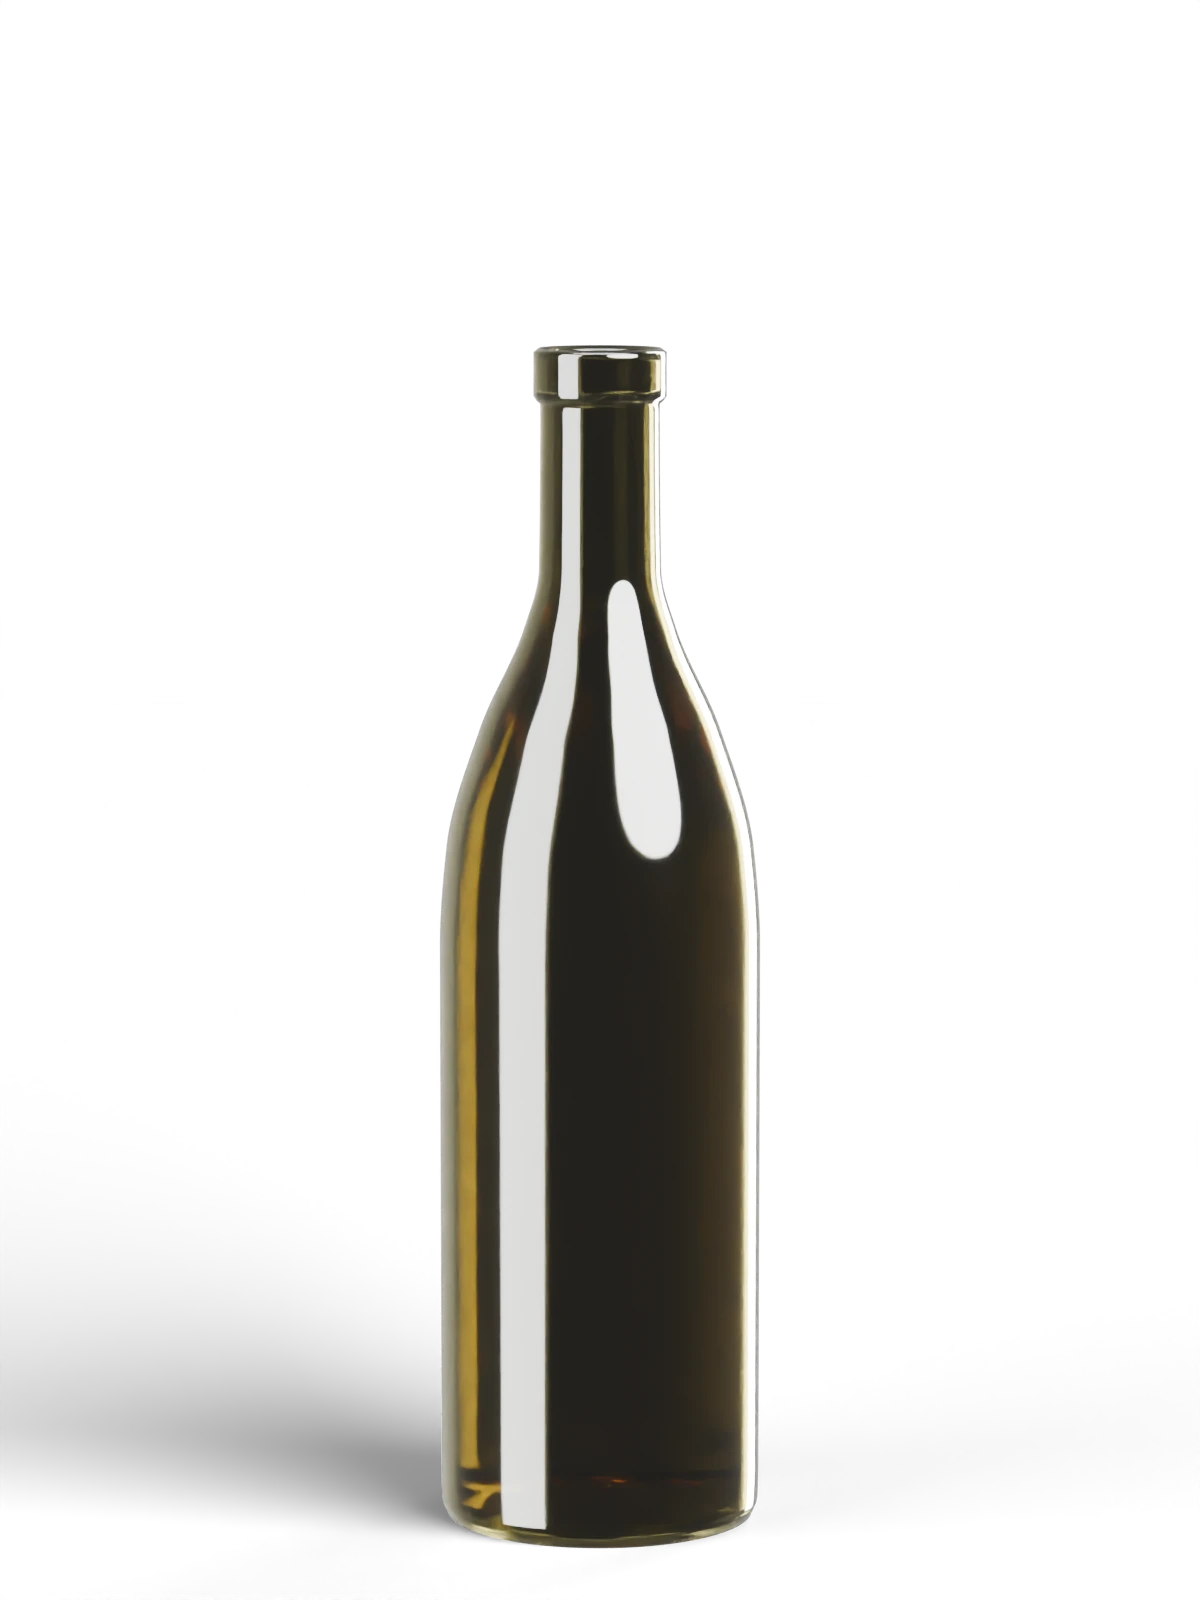
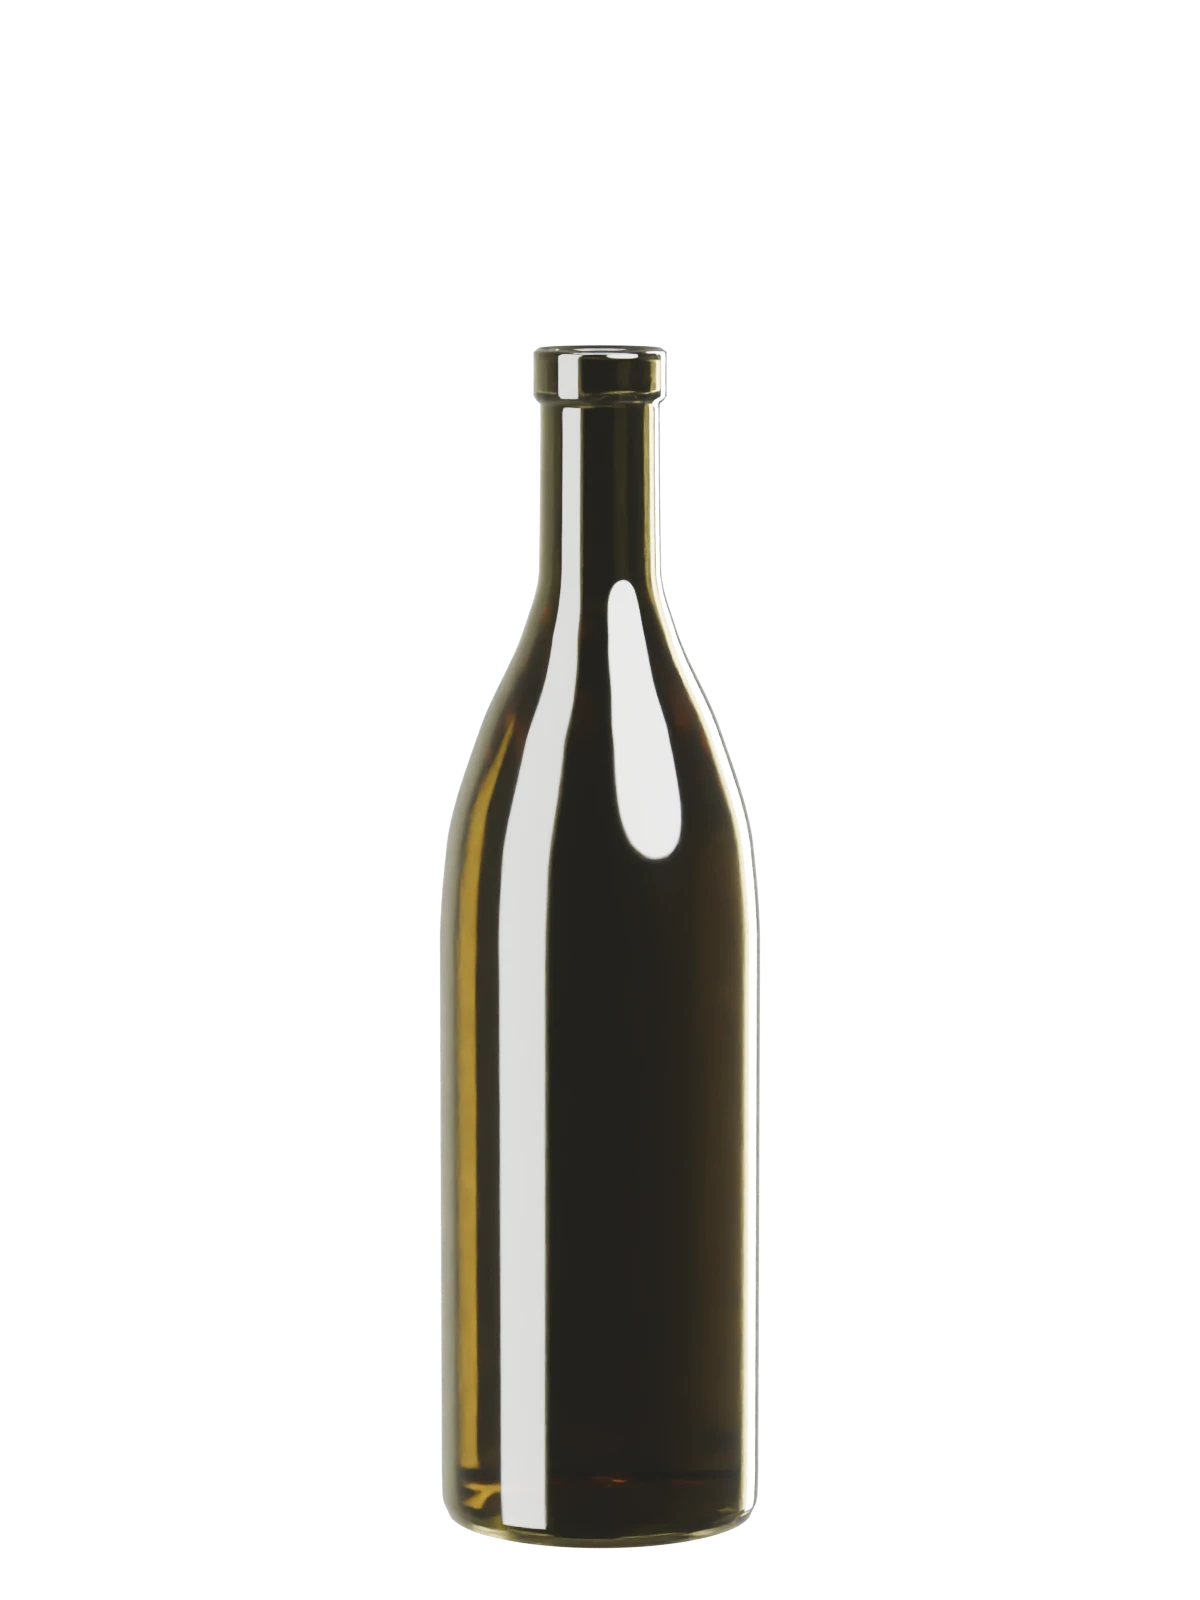
Transparent, shadow-free bottle visuals; display background as a setting
- Visuals no longer bake any contact or cast shadow; studio bottles re-rendered without the shadow catcher
  (--shadow keeps the old look)
- Background is applied by the display (--visual-bg): white by default, ivory or none, chosen in Compte,
  stored per device; changing it needs no regeneration
- Cutout clean-up removes thin cords or wires touching the top of the bottle (rows < 12 % of bottle width)

Claude-Session: https://claude.ai/code/session_01DhDUi5uRoGWFvdqY9Jj3Tm

Changed region(s): [[0.0, 0.8125, 0.4008, 0.9688]]

diff --git a/assets/js/visuel.js b/assets/js/visuel.js
@@ -8,7 +8,7 @@
 (function () {
   const VC = window.VC;
   const { sb, $, esc, I, toast, fail } = VC;
-  const BASE = "/assets/img/bottles/", AV = "?v=20261107";  // AV : version des rendus (cache de l'app installée)
+  const BASE = "/assets/img/bottles/", AV = "?v=20261107b";  // AV : version des rendus (cache de l'app installée)
   const SHAPE_LABEL = { bordeaux: "Bordelaise", burgundy: "Bourguignonne", champagne: "Champenoise", alsace: "Flûte", spirit: "Spiritueux" };
   const VARIANT_LABEL = { "green-red": "Vert · rouge", "flint-white": "Blanc · vin blanc", "flint-rose": "Blanc · rosé", "olive-red": "Feuille-morte · rouge",
     "olive-white": "Feuille-morte · blanc", "darkgreen-white": "Vert foncé", "green-white": "Vert · blanc", "flint-amber": "Ambré", "flint-clear": "Incolore" };
@@ -350,36 +350,26 @@
   }
 
   // ---------------------------------------------------------------- packshot d'une vraie bouteille détourée
-  // La bouteille (PNG transparent de fal) est posée au cadrage et à l'échelle des rendus de studio, sur une ombre
-  // de contact et une ombre portée douce vers l'arrière gauche, comme les bouteilles vierges.
+  // La bouteille (PNG transparent de fal) est posée au cadrage et à l'échelle des rendus de studio, sans ombre :
+  // le visuel reste transparent, et c'est l'affichage (réglage « Fond des aperçus ») qui pose le fond.
   async function composePhoto(png, shape) {
     const s = meta.shapes[shape] || meta.shapes.burgundy, cam = meta.camera, [W, H] = meta.size, R = cam.rot, [ox, oy, oz] = cam.pos;
     const screenY = (x, y, z) => { const px = x - ox, py = y - oy, pz = z - oz; const cy = R[0][1] * px + R[1][1] * py + R[2][1] * pz, cz = R[0][2] * px + R[1][2] * py + R[2][2] * pz; return H / 2 - cam.f * cy / -cz; };
     const foot = screenY(0, -s.body.r, 0), lip = screenY(0, 0, s.h), targetH = foot - lip;
     // recadrage sur la silhouette (alpha)
     const t = document.createElement("canvas"); t.width = png.width; t.height = png.height; const tx = t.getContext("2d"); tx.drawImage(png, 0, 0);
-    const a = tx.getImageData(0, 0, t.width, t.height).data; let x0 = t.width, y0 = t.height, x1 = 0, y1 = 0;
+    const D = tx.getImageData(0, 0, t.width, t.height), a = D.data; let x0 = t.width, y0 = t.height, x1 = 0, y1 = 0;
+    // Nettoyage du haut : un fil ou un câble qui touche la capsule (lampe, suspension) est gardé par le détourage ;
+    // les lignes bien plus étroites que la bouteille (< 12 % de sa largeur maximale) sont retirées au-dessus d'elle.
+    const rowW = new Int32Array(t.height); let maxW = 0;
+    for (let y = 0; y < t.height; y++) { let n = 0; for (let x = 0; x < t.width; x++) if (a[(y * t.width + x) * 4 + 3] > 128) n++; rowW[y] = n; if (n > maxW) maxW = n; }
+    let top = 0; while (top < t.height && rowW[top] < maxW * .12) top++;
+    if (top > 0) { for (let i = 0; i < top * t.width * 4; i += 4) a[i + 3] = 0; tx.putImageData(D, 0, 0); }
     for (let y = 0; y < t.height; y++) for (let x = 0; x < t.width; x++) if (a[(y * t.width + x) * 4 + 3] > 24) { if (x < x0) x0 = x; if (x > x1) x1 = x; if (y < y0) y0 = y; if (y > y1) y1 = y; }
     if (x1 <= x0 || y1 <= y0) throw new Error("Détourage vide.");
     const bw0 = x1 - x0 + 1, bh0 = y1 - y0 + 1, k = Math.min(targetH / bh0, W * .7 / bw0), bw = bw0 * k, bh = bh0 * k, dx = (W - bw) / 2, dy = foot - bh;
-    const sil = document.createElement("canvas"); sil.width = bw0; sil.height = bh0; const sx = sil.getContext("2d");
-    sx.drawImage(t, x0, y0, bw0, bh0, 0, 0, bw0, bh0); sx.globalCompositeOperation = "source-in"; sx.fillStyle = "#000"; sx.fillRect(0, 0, bw0, bh0);
     const c = document.createElement("canvas"); c.width = W; c.height = H; const ctx = c.getContext("2d");
-    // ombre portée : silhouette couchée sur le sol vers l'arrière gauche, floutée (réduction puis agrandissement), estompée
-    // Haut de la silhouette → vers la gauche et vers le fond (cisaillement + écrasement), pied fixe.
-    const S = 2, sh = document.createElement("canvas"); sh.width = W / S; sh.height = H / S; const hx = sh.getContext("2d");
-    if ("filter" in hx) hx.filter = "blur(9px)";
-    hx.setTransform(1 / S, 0, .6 / S, .16 / S, (dx - .6 * bh) / S, (foot - .16 * bh) / S); hx.drawImage(sil, 0, 0, bw, bh);
-    hx.filter = "none";
-    hx.setTransform(1, 0, 0, 1, 0, 0); hx.globalCompositeOperation = "destination-in";
-    const g = hx.createRadialGradient(W / 2 / S, foot / S, 0, W / 2 / S, foot / S, bh * .6 / S); g.addColorStop(0, "rgba(0,0,0,1)"); g.addColorStop(1, "rgba(0,0,0,0)");
-    hx.fillStyle = g; hx.fillRect(0, 0, sh.width, sh.height);
-    ctx.globalAlpha = .3; ctx.imageSmoothingQuality = "high"; ctx.drawImage(sh, 0, 0, W, H);
-    // ombre de contact au pied
-    const cs = document.createElement("canvas"); cs.width = W / S; cs.height = H / S; const cx2 = cs.getContext("2d");
-    if ("filter" in cx2) cx2.filter = "blur(4px)";
-    cx2.fillStyle = "#000"; cx2.beginPath(); cx2.ellipse(W / 2 / S, foot / S, bw * .47 / S, 5, 0, 0, Math.PI * 2); cx2.fill();
-    ctx.globalAlpha = .55; ctx.drawImage(cs, 0, 0, W, H); ctx.globalAlpha = 1;
+    ctx.imageSmoothingQuality = "high";
     ctx.drawImage(t, x0, y0, bw0, bh0, dx, dy, bw, bh);
     return c;
   }

diff --git a/assets/js/compte.js b/assets/js/compte.js
@@ -21,6 +21,8 @@
       <p class="muted">Export de toute la cave au format du modèle d'import (une ligne par vin et par cave), lisible dans Excel ou Numbers et réimportable tel quel.</p>
       <div class="row"><button class="btn ghost" id="export">${I.download}Exporter la cave (.xlsx)</button><a class="btn ghost" href="/app/importer.html">Importer un tableau</a><button class="btn ghost" id="export-j">${I.download}Exporter le journal (.csv)</button></div>
       <p class="faint" style="margin:14px 0 0;font-size:var(--fs-s)">Analyses d'étiquettes ces dernières 24 h : <span id="quota">…</span></p></div>
+    <div class="card"><h3>Fond des aperçus</h3><p class="muted">Derrière les visuels de bouteilles, dans la cave et les fiches. Modifiable à tout moment, sans refaire les visuels. Réglage propre à cet appareil.</p>
+      <div class="bg-choices" id="visual-bg">${[["white", "Blanc", "#fff"], ["ivory", "Ivoire", "#f3efe7"], ["none", "Aucun", "repeating-conic-gradient(var(--sunk) 0 25%, var(--card) 0 50%) 0 0 / 12px 12px"]].map(([k, l, bg]) => `<button type="button" class="bg-choice" data-bg="${k}" aria-pressed="${VC.getVisualBg() === k}"><i style="background:${bg}"></i>${l}</button>`).join("")}</div></div>
     <div class="card"><h3>Caves et partage</h3><p class="muted">Créer, renommer ou supprimer une cave ; inviter votre conjoint ou votre famille.</p><a class="btn ghost" href="/app/caves.html">${I.share}Gérer les caves et le partage</a></div>
     ${p.is_admin ? `<div class="card"><h3>Administration</h3><p class="muted">Valider les demandes d'invitation.</p><a class="btn ghost" href="/app/admin.html">Demandes d'invitation<span id="req-n"></span></a></div>` : ""}
     <div class="card"><h3>Session</h3><div class="row"><button class="btn ghost" id="logout">${I.out}Se déconnecter</button><button class="btn ghost" id="logout-all">Se déconnecter de tous les appareils</button></div></div>`;
@@ -30,6 +32,12 @@
   sb.from("ai_calls").select("id", { count: "exact", head: true }).gte("created_at", new Date(Date.now() - 864e5).toISOString())
     .then(({ count }) => ($("#quota").textContent = count ?? 0));
 
+  $("#visual-bg").addEventListener("click", (e) => {
+    const b = e.target.closest("[data-bg]"); if (!b) return;
+    VC.setVisualBg(b.dataset.bg);
+    document.querySelectorAll("#visual-bg [data-bg]").forEach((x) => x.setAttribute("aria-pressed", String(x === b)));
+    toast("Fond des aperçus modifié.");
+  });
   $("#profile").addEventListener("submit", async (e) => {
     e.preventDefault();
     const f = e.target;

diff --git a/assets/css/app.css b/assets/css/app.css
@@ -767,12 +767,19 @@ dialog:has(.vis-sheet) { width: min(860px, calc(100vw - 24px)); }
 .vis-which { align-items: center; margin-bottom: 6px; } .vis-which:empty { display: none; }
 
 /* visuel propre : packshot sur fond blanc, comme une photo de catalogue (dans les deux thèmes) */
-.thumb.image-visual, .visual[data-kind="visual"] { background: #fff; }
+/* Fond des aperçus : les visuels sont transparents ; le fond est un réglage d'affichage (Compte), sans régénération. */
+:root { --visual-bg: #fff; }
+:root[data-visual-bg="ivory"] { --visual-bg: #f3efe7; }
+:root[data-visual-bg="none"] { --visual-bg: transparent; }
+.thumb.image-visual, .visual[data-kind="visual"], #vswitch button.is-visual { background: var(--visual-bg); }
 .thumb.image-visual img { object-fit: contain; padding: 0; }
 .visual[data-kind="visual"] img { padding: 0; }
-:root[data-theme="dark"] .thumb.image-visual, :root[data-theme="dark"] .visual[data-kind="visual"] { background: #f4f2ef; }
-@media (prefers-color-scheme: dark) { :root:not([data-theme="light"]) .thumb.image-visual, :root:not([data-theme="light"]) .visual[data-kind="visual"] { background: #f4f2ef; } }
-.vis-out { background: #fff; }
+.vis-out { background: var(--visual-bg); }
+:root[data-visual-bg="none"] .vis-out { background: repeating-conic-gradient(var(--sunk) 0 25%, var(--card) 0 50%) 0 0 / 22px 22px; }
+.bg-choices { display: flex; gap: 10px; flex-wrap: wrap; margin-top: 10px; }
+.bg-choice { display: grid; justify-items: center; gap: 6px; min-width: 88px; padding: 10px; border: 1px solid var(--line); border-radius: var(--radius-s); background: var(--card); color: var(--ink); font: inherit; cursor: pointer; }
+.bg-choice[aria-pressed="true"] { border-color: var(--wine); box-shadow: 0 0 0 2px var(--wine-soft); }
+.bg-choice i { width: 44px; height: 58px; border-radius: 8px; border: 1px solid var(--line); }
 .vis-sheet.photo .studio-only, .vis-sheet.photo #vis-which { display: none; }
 #vis-render .chip:disabled { opacity: .45; cursor: not-allowed; }
 

diff --git a/assets/js/core.js b/assets/js/core.js
@@ -16,6 +16,11 @@
     : null;
 
   // Préférence locale : aucun changement de profil ou de données serveur.
+  // Fond derrière les aperçus de bouteille (images transparentes) : blanc, ivoire ou aucun. Réglage de l'appareil.
+  const VISUAL_BG = ["white", "ivory", "none"];
+  const getVisualBg = () => { try { const v = localStorage.getItem("vc.visual-bg"); return VISUAL_BG.includes(v) ? v : "white"; } catch { return "white"; } };
+  const setVisualBg = (v) => { try { localStorage.setItem("vc.visual-bg", v); } catch { /* stockage indisponible */ } document.documentElement.dataset.visualBg = v; };
+  document.documentElement.dataset.visualBg = getVisualBg();
   let theme = "system";
   try { theme = localStorage.getItem("vc.theme") || "system"; } catch { /* stockage indisponible */ }
   if (!["system", "light", "dark"].includes(theme)) theme = "system";
@@ -658,6 +663,6 @@
     $, $$, esc, money, date, today, year, range, safeUrl, host, isWine, title,
     windowStatus, bottleSvg, signed, mainImagePath, imageInfo, itemVisual, editorial, renderNav, boot, toast, fail, stars,
     renderItemForm, readItemForm, identify, shrink,
-    carnetNav, wishlistsFor, canEdit, lookalikes, likeness, getLoc, setLoc, loadPlaces, placeLabel, sheet, takeOut, installHint, standalone, REASON, REGIONS, countryOf, regionOf, regionList, fold, priceOf, PRICE_BANDS
+    carnetNav, wishlistsFor, canEdit, lookalikes, likeness, getLoc, setLoc, loadPlaces, placeLabel, sheet, takeOut, installHint, getVisualBg, setVisualBg, standalone, REASON, REGIONS, countryOf, regionOf, regionList, fold, priceOf, PRICE_BANDS
   };
 })();

diff --git a/app/importer.html b/app/importer.html
@@ -20,14 +20,14 @@
   <link rel="preconnect" href="https://fonts.googleapis.com">
   <link rel="preconnect" href="https://fonts.gstatic.com" crossorigin>
   <link rel="stylesheet" href="https://fonts.googleapis.com/css2?family=Fraunces:opsz,wght@9..144,400;9..144,500;9..144,600&family=Inter:wght@400;500;600;700&display=swap">
-  <link rel="stylesheet" href="/assets/css/app.css?v=20261107-full">
+  <link rel="stylesheet" href="/assets/css/app.css?v=20261107-bg">
   <script src="https://cdn.jsdelivr.net/npm/@supabase/supabase-js@2.57.4/dist/umd/supabase.js"></script>
-  <script src="/assets/js/config.js?v=20261107-full"></script>
-  <script src="/assets/js/core.js?v=20261107-full"></script>
-  <script src="/assets/js/studio.js?v=20261107-full"></script>
+  <script src="/assets/js/config.js?v=20261107-bg"></script>
+  <script src="/assets/js/core.js?v=20261107-bg"></script>
+  <script src="/assets/js/studio.js?v=20261107-bg"></script>
   <script src="https://cdn.jsdelivr.net/npm/xlsx@0.18.5/dist/xlsx.full.min.js"></script>
-  <script src="/assets/js/sheet.js?v=20261107-full"></script>
-  <script src="/assets/js/importer.js?v=20261107-full" defer></script>
+  <script src="/assets/js/sheet.js?v=20261107-bg"></script>
+  <script src="/assets/js/importer.js?v=20261107-bg" defer></script>
 </head>
 <body class="app">
   <header id="topbar"></header>

diff --git a/app/compte.html b/app/compte.html
@@ -20,14 +20,14 @@
   <link rel="preconnect" href="https://fonts.googleapis.com">
   <link rel="preconnect" href="https://fonts.gstatic.com" crossorigin>
   <link rel="stylesheet" href="https://fonts.googleapis.com/css2?family=Fraunces:opsz,wght@9..144,400;9..144,500;9..144,600&family=Inter:wght@400;500;600;700&display=swap">
-  <link rel="stylesheet" href="/assets/css/app.css?v=20261107-full">
+  <link rel="stylesheet" href="/assets/css/app.css?v=20261107-bg">
   <script src="https://cdn.jsdelivr.net/npm/@supabase/supabase-js@2.57.4/dist/umd/supabase.js"></script>
-  <script src="/assets/js/config.js?v=20261107-full"></script>
-  <script src="/assets/js/core.js?v=20261107-full"></script>
-  <script src="/assets/js/studio.js?v=20261107-full"></script>
+  <script src="/assets/js/config.js?v=20261107-bg"></script>
+  <script src="/assets/js/core.js?v=20261107-bg"></script>
+  <script src="/assets/js/studio.js?v=20261107-bg"></script>
   <script src="https://cdn.jsdelivr.net/npm/xlsx@0.18.5/dist/xlsx.full.min.js"></script>
-  <script src="/assets/js/sheet.js?v=20261107-full"></script>
-  <script src="/assets/js/compte.js?v=20261107-full" defer></script>
+  <script src="/assets/js/sheet.js?v=20261107-bg"></script>
+  <script src="/assets/js/compte.js?v=20261107-bg" defer></script>
 </head>
 <body class="app">
   <header id="topbar"></header>

diff --git a/app/ajouter.html b/app/ajouter.html
@@ -20,13 +20,13 @@
   <link rel="preconnect" href="https://fonts.googleapis.com">
   <link rel="preconnect" href="https://fonts.gstatic.com" crossorigin>
   <link rel="stylesheet" href="https://fonts.googleapis.com/css2?family=Fraunces:opsz,wght@9..144,400;9..144,500;9..144,600&family=Inter:wght@400;500;600;700&display=swap">
-  <link rel="stylesheet" href="/assets/css/app.css?v=20261107-full">
+  <link rel="stylesheet" href="/assets/css/app.css?v=20261107-bg">
   <script src="https://cdn.jsdelivr.net/npm/@supabase/supabase-js@2.57.4/dist/umd/supabase.js"></script>
-  <script src="/assets/js/config.js?v=20261107-full"></script>
-  <script src="/assets/js/core.js?v=20261107-full"></script>
-  <script src="/assets/js/studio.js?v=20261107-full"></script>
-  <script src="/assets/js/visuel.js?v=20261107-full"></script>
-  <script src="/assets/js/ajouter.js?v=20261107-full" defer></script>
+  <script src="/assets/js/config.js?v=20261107-bg"></script>
+  <script src="/assets/js/core.js?v=20261107-bg"></script>
+  <script src="/assets/js/studio.js?v=20261107-bg"></script>
+  <script src="/assets/js/visuel.js?v=20261107-bg"></script>
+  <script src="/assets/js/ajouter.js?v=20261107-bg" defer></script>
 </head>
 <body class="app">
   <header id="topbar"></header>

diff --git a/app/fiche.html b/app/fiche.html
@@ -20,13 +20,13 @@
   <link rel="preconnect" href="https://fonts.googleapis.com">
   <link rel="preconnect" href="https://fonts.gstatic.com" crossorigin>
   <link rel="stylesheet" href="https://fonts.googleapis.com/css2?family=Fraunces:opsz,wght@9..144,400;9..144,500;9..144,600&family=Inter:wght@400;500;600;700&display=swap">
-  <link rel="stylesheet" href="/assets/css/app.css?v=20261107-full">
+  <link rel="stylesheet" href="/assets/css/app.css?v=20261107-bg">
   <script src="https://cdn.jsdelivr.net/npm/@supabase/supabase-js@2.57.4/dist/umd/supabase.js"></script>
-  <script src="/assets/js/config.js?v=20261107-full"></script>
-  <script src="/assets/js/core.js?v=20261107-full"></script>
-  <script src="/assets/js/studio.js?v=20261107-full"></script>
-  <script src="/assets/js/visuel.js?v=20261107-full"></script>
-  <script src="/assets/js/fiche.js?v=20261107-full" defer></script>
+  <script src="/assets/js/config.js?v=20261107-bg"></script>
+  <script src="/assets/js/core.js?v=20261107-bg"></script>
+  <script src="/assets/js/studio.js?v=20261107-bg"></script>
+  <script src="/assets/js/visuel.js?v=20261107-bg"></script>
+  <script src="/assets/js/fiche.js?v=20261107-bg" defer></script>
 </head>
 <body class="app">
   <header id="topbar"></header>

diff --git a/app/studio.html b/app/studio.html
@@ -20,12 +20,12 @@
   <link rel="preconnect" href="https://fonts.googleapis.com">
   <link rel="preconnect" href="https://fonts.gstatic.com" crossorigin>
   <link rel="stylesheet" href="https://fonts.googleapis.com/css2?family=Fraunces:opsz,wght@9..144,400;9..144,500;9..144,600&family=Inter:wght@400;500;600;700&display=swap">
-  <link rel="stylesheet" href="/assets/css/app.css?v=20261107-full">
+  <link rel="stylesheet" href="/assets/css/app.css?v=20261107-bg">
   <script src="https://cdn.jsdelivr.net/npm/@supabase/supabase-js@2.57.4/dist/umd/supabase.js"></script>
-  <script src="/assets/js/config.js?v=20261107-full"></script>
-  <script src="/assets/js/core.js?v=20261107-full"></script>
-  <script src="/assets/js/studio.js?v=20261107-full"></script>
-  <script src="/assets/js/studio-page.js?v=20261107-full" defer></script>
+  <script src="/assets/js/config.js?v=20261107-bg"></script>
+  <script src="/assets/js/core.js?v=20261107-bg"></script>
+  <script src="/assets/js/studio.js?v=20261107-bg"></script>
+  <script src="/assets/js/studio-page.js?v=20261107-bg" defer></script>
 </head>
 <body class="app">
   <header id="topbar"></header>

diff --git a/app/historique.html b/app/historique.html
@@ -20,12 +20,12 @@
   <link rel="preconnect" href="https://fonts.googleapis.com">
   <link rel="preconnect" href="https://fonts.gstatic.com" crossorigin>
   <link rel="stylesheet" href="https://fonts.googleapis.com/css2?family=Fraunces:opsz,wght@9..144,400;9..144,500;9..144,600&family=Inter:wght@400;500;600;700&display=swap">
-  <link rel="stylesheet" href="/assets/css/app.css?v=20261107-full">
+  <link rel="stylesheet" href="/assets/css/app.css?v=20261107-bg">
   <script src="https://cdn.jsdelivr.net/npm/@supabase/supabase-js@2.57.4/dist/umd/supabase.js"></script>
-  <script src="/assets/js/config.js?v=20261107-full"></script>
-  <script src="/assets/js/core.js?v=20261107-full"></script>
-  <script src="/assets/js/studio.js?v=20261107-full"></script>
-  <script src="/assets/js/historique.js?v=20261107-full" defer></script>
+  <script src="/assets/js/config.js?v=20261107-bg"></script>
+  <script src="/assets/js/core.js?v=20261107-bg"></script>
+  <script src="/assets/js/studio.js?v=20261107-bg"></script>
+  <script src="/assets/js/historique.js?v=20261107-bg" defer></script>
 </head>
 <body class="app">
   <header id="topbar"></header>

diff --git a/app/sommelier.html b/app/sommelier.html
@@ -20,12 +20,12 @@
   <link rel="preconnect" href="https://fonts.googleapis.com">
   <link rel="preconnect" href="https://fonts.gstatic.com" crossorigin>
   <link rel="stylesheet" href="https://fonts.googleapis.com/css2?family=Fraunces:opsz,wght@9..144,400;9..144,500;9..144,600&family=Inter:wght@400;500;600;700&display=swap">
-  <link rel="stylesheet" href="/assets/css/app.css?v=20261107-full">
+  <link rel="stylesheet" href="/assets/css/app.css?v=20261107-bg">
   <script src="https://cdn.jsdelivr.net/npm/@supabase/supabase-js@2.57.4/dist/umd/supabase.js"></script>
-  <script src="/assets/js/config.js?v=20261107-full"></script>
-  <script src="/assets/js/core.js?v=20261107-full"></script>
-  <script src="/assets/js/studio.js?v=20261107-full"></script>
-  <script src="/assets/js/sommelier.js?v=20261107-full" defer></script>
+  <script src="/assets/js/config.js?v=20261107-bg"></script>
+  <script src="/assets/js/core.js?v=20261107-bg"></script>
+  <script src="/assets/js/studio.js?v=20261107-bg"></script>
+  <script src="/assets/js/sommelier.js?v=20261107-bg" defer></script>
 </head>
 <body class="app">
   <header id="topbar"></header>

diff --git a/app/journal.html b/app/journal.html
@@ -20,12 +20,12 @@
   <link rel="preconnect" href="https://fonts.googleapis.com">
   <link rel="preconnect" href="https://fonts.gstatic.com" crossorigin>
   <link rel="stylesheet" href="https://fonts.googleapis.com/css2?family=Fraunces:opsz,wght@9..144,400;9..144,500;9..144,600&family=Inter:wght@400;500;600;700&display=swap">
-  <link rel="stylesheet" href="/assets/css/app.css?v=20261107-full">
+  <link rel="stylesheet" href="/assets/css/app.css?v=20261107-bg">
   <script src="https://cdn.jsdelivr.net/npm/@supabase/supabase-js@2.57.4/dist/umd/supabase.js"></script>
-  <script src="/assets/js/config.js?v=20261107-full"></script>
-  <script src="/assets/js/core.js?v=20261107-full"></script>
-  <script src="/assets/js/studio.js?v=20261107-full"></script>
-  <script src="/assets/js/journal.js?v=20261107-full" defer></script>
+  <script src="/assets/js/config.js?v=20261107-bg"></script>
+  <script src="/assets/js/core.js?v=20261107-bg"></script>
+  <script src="/assets/js/studio.js?v=20261107-bg"></script>
+  <script src="/assets/js/journal.js?v=20261107-bg" defer></script>
 </head>
 <body class="app">
   <header id="topbar"></header>
